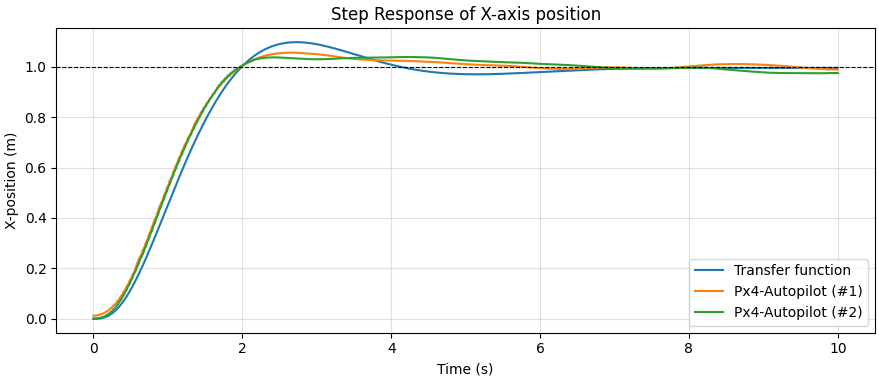
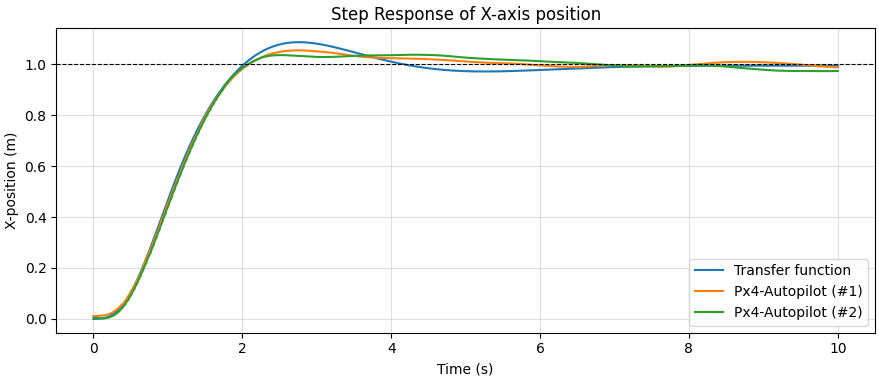
Step reponse now looks nice

Changed region(s): [[0.0307, 0.0871, 1.0, 0.8417], [0.0307, 0.1451, 0.0614, 0.2032], [0.0307, 0.6966, 0.0614, 0.7256]]

diff --git a/px4_sitl_scripts/regulation3.py b/px4_sitl_scripts/regulation3.py
@@ -6,7 +6,7 @@ s = control.tf('s')
 
 # ── Physical constants ─────────────────────────────────────────────────────
 g      = 9.81   # m/s²
-J      = 0.01   # moment of inertia (kg·m²) — tune to your x500 airframe
+J      = 0.02166666666666667   # moment of inertia (kg·m²) — tune to your x500 airframe
                 # x500 typical: Ixx ≈ Iyy ≈ 0.01–0.02 kg·m²
 
 # ── PX4 gains ─────────────────────────────────────────────────────────────
@@ -54,7 +54,7 @@ C_pos  = Kp_pos                                              # P   on position
 # Loop 4: rate loop   θ_dot_ref → θ_dot
 #   open-loop: C_rate · P_angacc
 #   C_rate acts on rate error; plant is τ → θ_dot (= 1/Js)
-G_rate = control.feedback(C_rate * P_angacc * 1/J, 1)
+G_rate = control.feedback(C_rate * P_angacc* 1/J, 1)
 
 # Loop 3: attitude loop   θ_ref → θ
 #   open-loop: C_att · (1/s) · G_rate
@@ -91,8 +91,8 @@ df2 = pd.read_csv("step_1_v3/data.csv")
 #print(df['/fmu/out/vehicle_odometry/position[0]'])
 
 #data1 = df1['/fmu/out/vehicle_odometry/position[0]'].values[200:1200]
-data1 = df1['/fmu/out/vehicle_odometry/position[0]'].values[4510:5510]
-data2 = df2['/fmu/out/vehicle_odometry/position[0]'].values[4200:5200]
+data1 = df1['/fmu/out/vehicle_odometry/position[0]'].values[4500:5500]
+data2 = df2['/fmu/out/vehicle_odometry/position[0]'].values[4190:5190]
 #data2 = df2['/fmu/out/vehicle_odometry/position[0]'].values[3370:4370]
 
 # ── Step response ─────────────────────────────────────────────────────────
